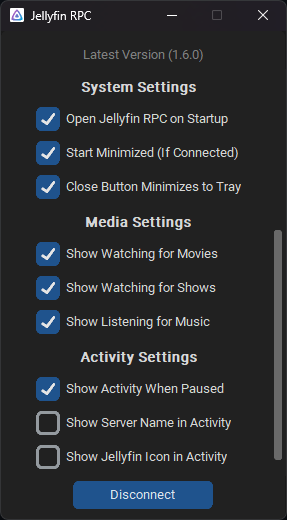
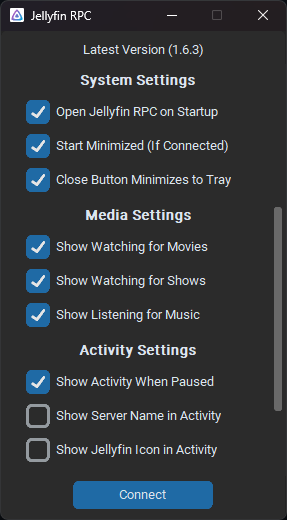
fixed broken reference caused by late binding

diff --git a/src/jellyfin_rpc/main.py b/src/jellyfin_rpc/main.py
@@ -1,6 +1,6 @@
 import functools
 import logging
-import multiprocessing
+import multiprocessing as mp
 import os
 import platform
 import queue
@@ -11,7 +11,6 @@ import webbrowser
 from configparser import ConfigParser
 from json.decoder import JSONDecodeError
 from logging import LogRecord, handlers
-from multiprocessing.queues import Queue
 from typing import Callable, TypedDict, cast
 
 import customtkinter as ctk
@@ -22,20 +21,20 @@ from requests.exceptions import RequestException
 
 from jellyfin_rpc import load_config, start_discord_rpc
 
-__version__ = '1.6.3'
+__version__ = '1.6.4'
 
 button1_text = ''
 logger = logging.getLogger('GUI')
 
 
 class RPCProcess:
-    def __init__(self, target: Callable, log_queue: Queue):
+    def __init__(self, target: Callable, log_queue: mp.Queue):
         self.target = target
         self.log_queue = log_queue
-        self.process: multiprocessing.Process | None = None
+        self.process: mp.Process | None = None
 
     def start(self):
-        self.process = multiprocessing.Process(target=self.target, args=(self.log_queue,))
+        self.process = mp.Process(target=self.target, args=(self.log_queue,))
         self.process.start()
 
     def stop(self):
@@ -60,9 +59,7 @@ class RPCProcess:
 
 
 class RPCLogger:
-    def __init__(
-        self, frame: ctk.CTkFrame, log_queue: multiprocessing.Queue, text_widget: ctk.CTkTextbox
-    ):
+    def __init__(self, frame: ctk.CTkFrame, log_queue: mp.Queue, text_widget: ctk.CTkTextbox):
         self.frame = frame
         self.log_queue = log_queue
         self.text_widget = text_widget
@@ -255,7 +252,7 @@ def main():
     root = ctk.CTk()
     root.title('Jellyfin RPC')
     root.geometry('285x488')
-    gui_queue = queue.Queue()
+    gui_queue: queue.Queue[str] = queue.Queue()
 
     main_frame = ctk.CTkFrame(master=root)
     main_frame.pack(fill='both', expand=True)
@@ -351,7 +348,7 @@ def main():
     textbox1.configure(state='disabled')
     textbox1.pack(pady=5, padx=10)
 
-    log_queue = multiprocessing.Queue()
+    log_queue: mp.Queue[LogRecord] = mp.Queue()
     logger.setLevel(log_level)
     formatter = logging.Formatter('%(asctime)s %(levelname)s %(name)s %(message)s')
     file_hdlr = logging.FileHandler(log_path, encoding='utf-8')
@@ -506,21 +503,27 @@ def main():
                 )
             )
         elif key != 'START_MINIMIZED':
-            button = cast(ctk.CTkButton, context['button1'])
             checkbox.configure(
-                command=lambda: on_click(button, entries, rpc_process, only_disconnect=True)
+                command=lambda: on_click(
+                    cast(ctk.CTkButton, context['button1']),
+                    entries,
+                    rpc_process,
+                    only_disconnect=True,
+                )
             )
 
     def set_log_level(level: str):
         logger.setLevel(level)
-        button = cast(ctk.CTkButton, context['button1'])
-        on_click(button, entries, rpc_process, only_disconnect=True)
+        on_click(
+            cast(ctk.CTkButton, context['button1']), entries, rpc_process, only_disconnect=True
+        )
 
     def inc_refresh():
         value = refresh_rate_var.get()
         refresh_rate_var.set(value + 1)
-        button = cast(ctk.CTkButton, context['button1'])
-        on_click(button, entries, rpc_process, only_disconnect=True)
+        on_click(
+            cast(ctk.CTkButton, context['button1']), entries, rpc_process, only_disconnect=True
+        )
 
     def dec_refresh():
         value = int(refresh_rate_var.get())
@@ -528,17 +531,19 @@ def main():
             refresh_rate_var.set(value - 1)
         else:
             refresh_rate_var.set(1)
-        button = cast(ctk.CTkButton, context['button1'])
-        on_click(button, entries, rpc_process, only_disconnect=True)
+        on_click(
+            cast(ctk.CTkButton, context['button1']), entries, rpc_process, only_disconnect=True
+        )
 
     optionmenu1.configure(command=set_log_level)
     button2.configure(command=inc_refresh)
     button3.configure(command=dec_refresh)
 
     def on_click_callback():
-        button = cast(ctk.CTkButton, context['button1'])
         save_config(ini_path, entries, checkboxes, log_level_var, refresh_rate_var)
-        on_click(button, entries, rpc_process, context['tray_icon'])
+        on_click(
+            cast(ctk.CTkButton, context['button1']), entries, rpc_process, context['tray_icon']
+        )
 
     def on_close_callback():
         save_config(ini_path, entries, checkboxes, log_level_var, refresh_rate_var)
@@ -602,5 +607,5 @@ def main():
 
 
 if __name__ == '__main__':
-    multiprocessing.freeze_support()
+    mp.freeze_support()
     main()
